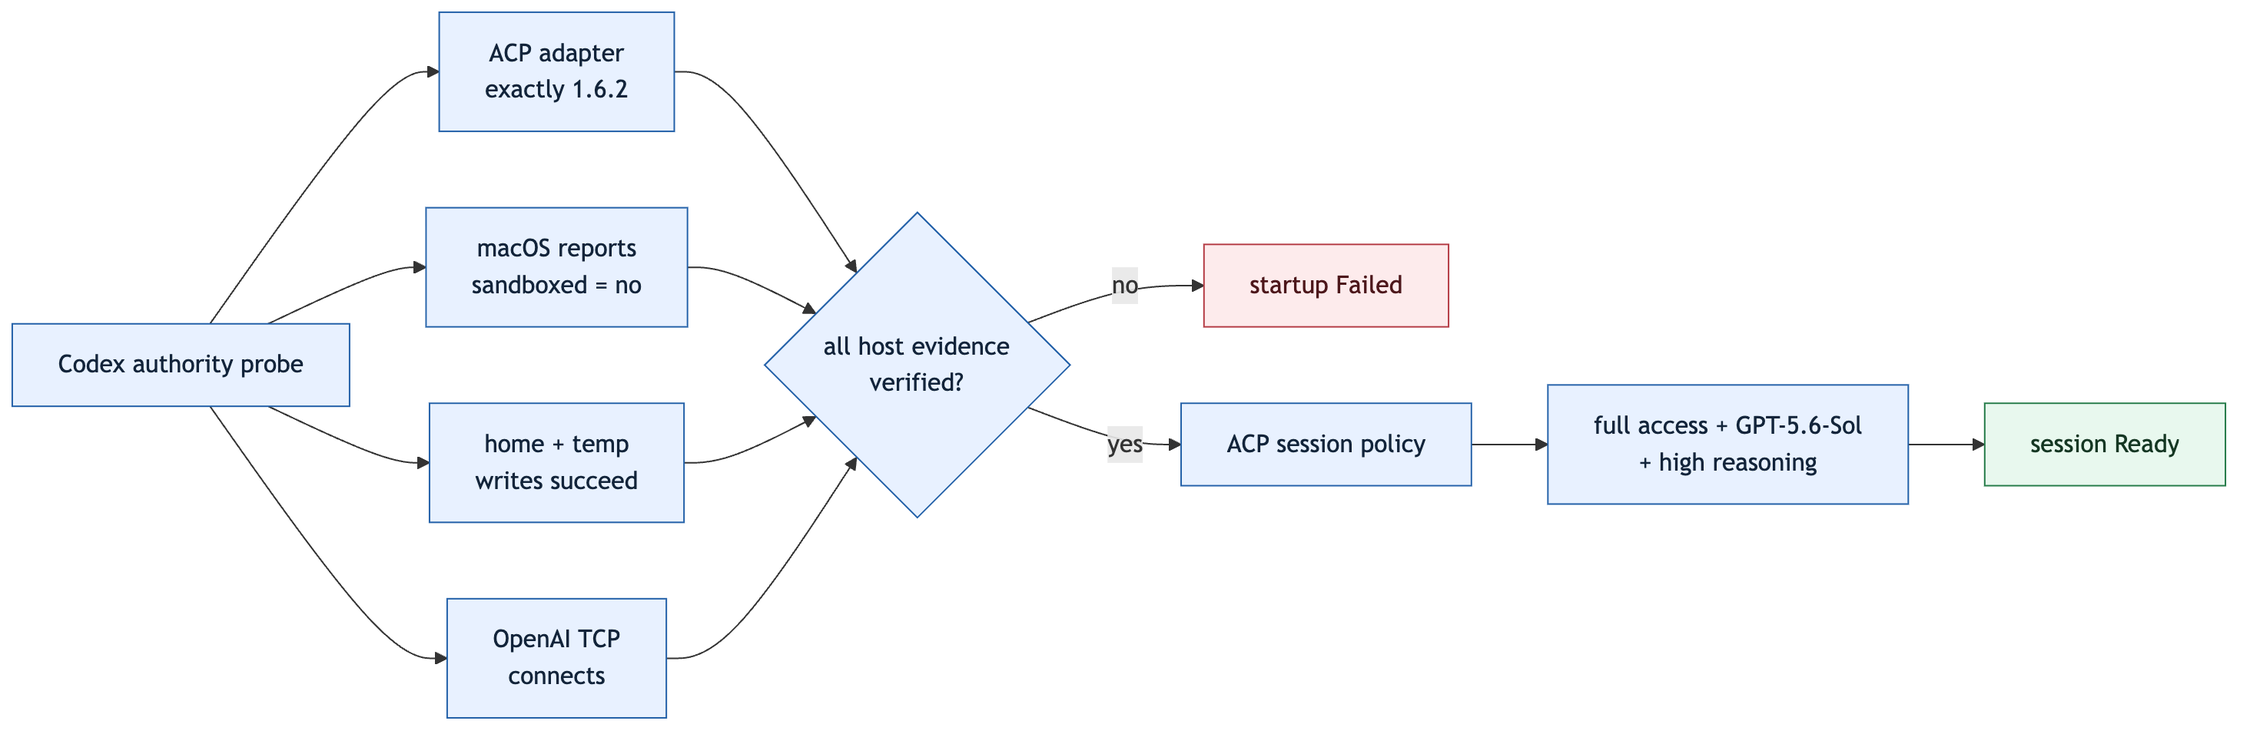
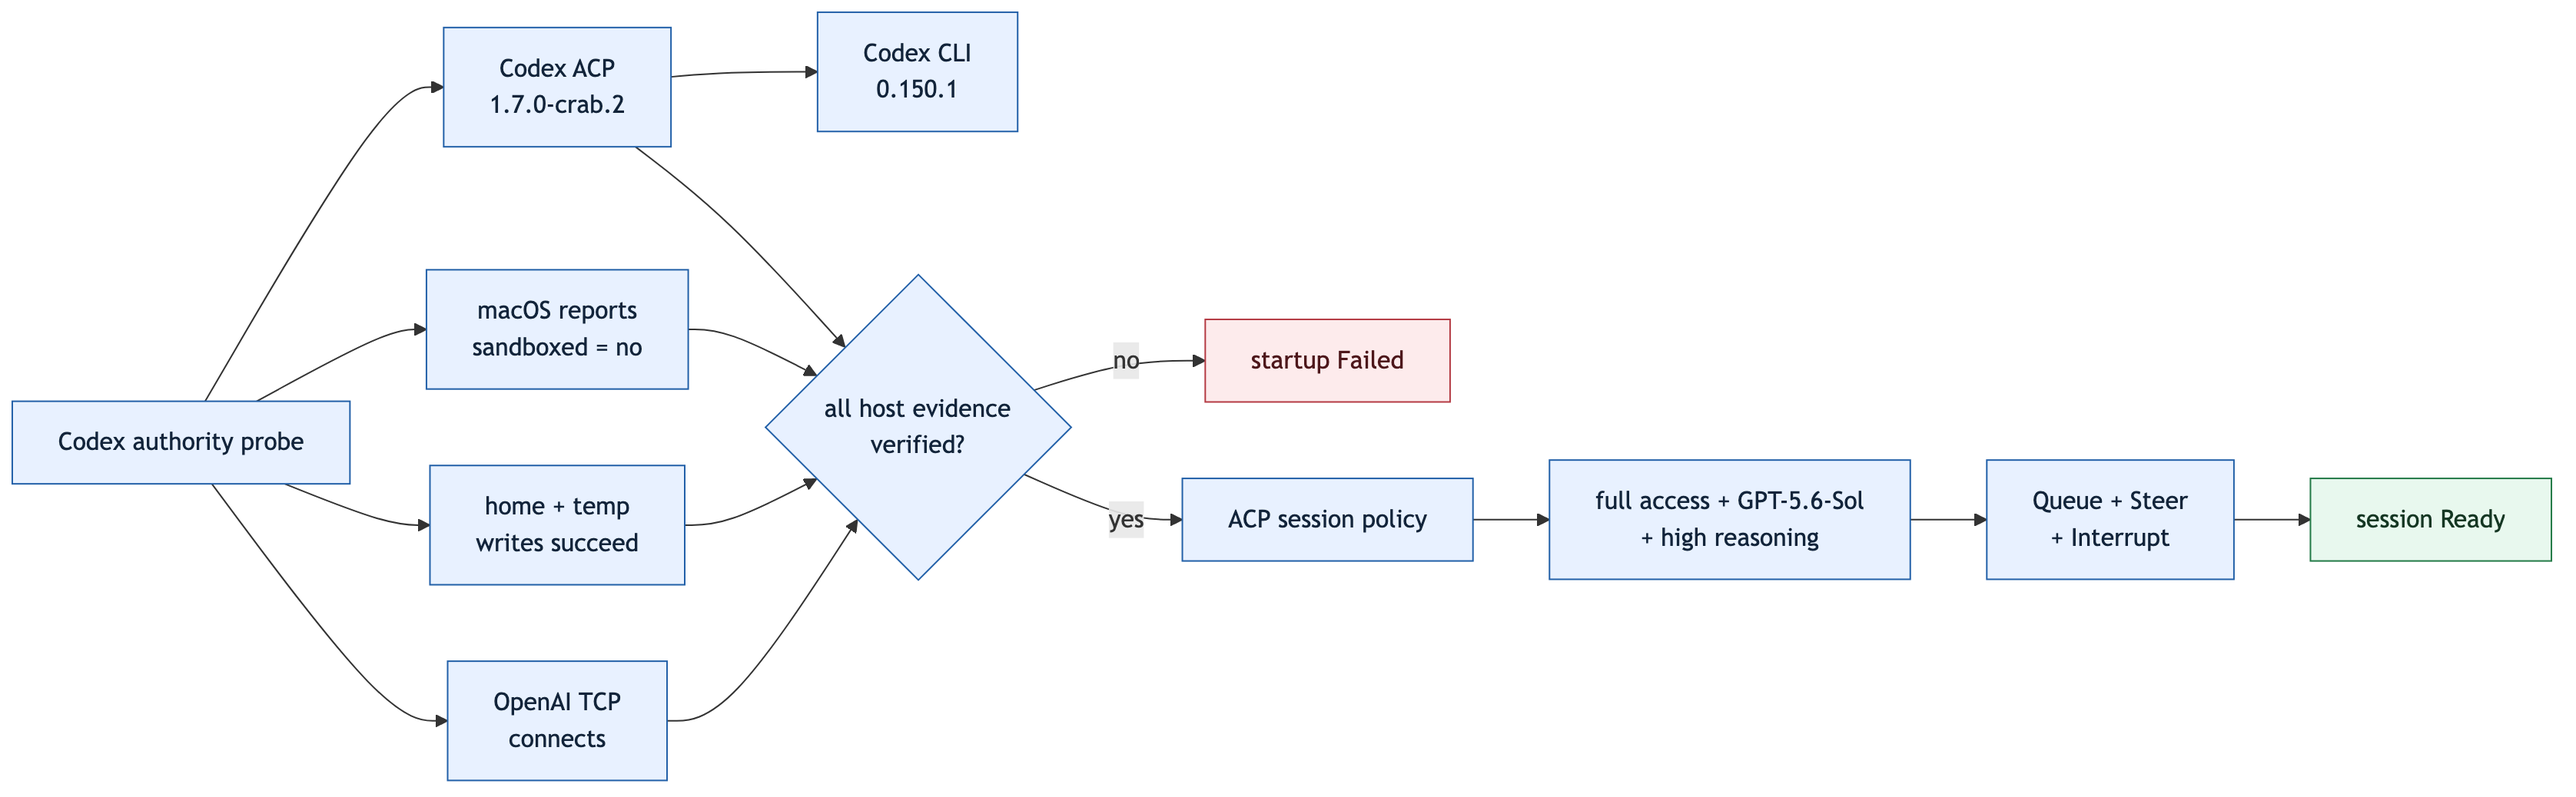
feat(v2): ship lifecycle-owned Codex steering (#294)

diff --git a/scripts/tests/test_v2_bundle.py b/scripts/tests/test_v2_bundle.py
@@ -10,6 +10,8 @@ from unittest import mock
 
 from scripts import v2_bundle as bundle_tool
 from scripts.v2_bundle import (
+    CODEX_ADAPTER_VERSION,
+    CODEX_CLI_VERSION,
     MANIFEST_NAME,
     RUNTIME_BINARIES,
     BundleError,
@@ -820,13 +822,24 @@ class BundleBuildPolicyTests(unittest.TestCase):
         codex_directory = root / "v2" / "runtime" / "agents" / "codex"
         package = json.loads((codex_directory / "package.json").read_text())
         lock = json.loads((codex_directory / "package-lock.json").read_text())
+        codex_adapter_url = (
+            "https://github.com/fontanierh/codex-acp/releases/download/"
+            "crab-v1.7.0-2/agentclientprotocol-codex-acp-1.7.0-crab.2.tgz"
+        )
         self.assertEqual(
             package["dependencies"]["@agentclientprotocol/codex-acp"],
-            "1.6.2",
+            codex_adapter_url,
+        )
+        self.assertEqual(
+            package["dependencies"]["@openai/codex"], CODEX_CLI_VERSION
         )
         resolved = lock["packages"]["node_modules/@agentclientprotocol/codex-acp"]
-        self.assertEqual(resolved["version"], "1.6.2")
+        self.assertEqual(resolved["version"], CODEX_ADAPTER_VERSION)
+        self.assertEqual(resolved["resolved"], codex_adapter_url)
         self.assertTrue(resolved["integrity"].startswith("sha512-"))
+        codex = lock["packages"]["node_modules/@openai/codex"]
+        self.assertEqual(codex["version"], CODEX_CLI_VERSION)
+        self.assertTrue(codex["integrity"].startswith("sha512-"))
 
 
 if __name__ == "__main__":

diff --git a/v2/runtime/composition/src/config.rs b/v2/runtime/composition/src/config.rs
@@ -840,11 +840,17 @@ mod tests {
         let agent = &config.agents[0];
         assert_eq!(
             agent.arguments,
-            ["--yes", "@agentclientprotocol/codex-acp@1.6.2"]
+            [
+                "--yes",
+                "https://github.com/fontanierh/codex-acp/releases/download/crab-v1.7.0-2/agentclientprotocol-codex-acp-1.7.0-crab.2.tgz"
+            ]
         );
         assert_eq!(agent.environment_from, ["PATH"]);
         assert_eq!(agent.protocol, super::ProtocolConfig::V1);
-        assert_eq!(agent.steering_extension, None);
+        assert_eq!(
+            agent.steering_extension,
+            Some(super::SteeringExtensionConfig::SessionSteeringV1)
+        );
         assert_eq!(
             agent.session_options.get("mode").map(String::as_str),
             Some("agent-full-access")
@@ -942,7 +948,10 @@ mod tests {
         assert_eq!(agent.arguments, Vec::<String>::new());
         assert_eq!(agent.environment_from, ["PATH"]);
         assert_eq!(agent.protocol, super::ProtocolConfig::V1);
-        assert_eq!(agent.steering_extension, None);
+        assert_eq!(
+            agent.steering_extension,
+            Some(super::SteeringExtensionConfig::SessionSteeringV1)
+        );
         assert_eq!(
             agent.session_options.get("mode").map(String::as_str),
             Some("agent-full-access")

diff --git a/v2/agent-host/implementation/src/bin/crab-v2-codex-authority-probe.rs b/v2/agent-host/implementation/src/bin/crab-v2-codex-authority-probe.rs
@@ -9,9 +9,9 @@ use authority_probe_support::ProbeDefinition;
 const DEFINITION: ProbeDefinition = ProbeDefinition {
     probe_name: "crab-v2-codex-authority-probe",
     adapter_name: "Codex",
-    adapter_package: "@agentclientprotocol/codex-acp@1.6.2",
-    adapter_version: "1.6.2",
-    adapter_version_output: "@agentclientprotocol/codex-acp 1.6.2",
+    adapter_package: "https://github.com/fontanierh/codex-acp/releases/download/crab-v1.7.0-2/agentclientprotocol-codex-acp-1.7.0-crab.2.tgz",
+    adapter_version: "1.7.0-crab.2",
+    adapter_version_output: "@agentclientprotocol/codex-acp 1.7.0-crab.2",
     network_endpoint: "chatgpt.com:443",
     require_non_root: false,
 };
@@ -37,7 +37,11 @@ mod tests {
         assert_eq!(invocation.executable, std::path::Path::new("npx"));
         assert_eq!(
             invocation.arguments,
-            ["--yes", "@agentclientprotocol/codex-acp@1.6.2", "--version"]
+            [
+                "--yes",
+                "https://github.com/fontanierh/codex-acp/releases/download/crab-v1.7.0-2/agentclientprotocol-codex-acp-1.7.0-crab.2.tgz",
+                "--version"
+            ]
         );
         assert_eq!(invocation.source, "pinned-npx");
     }

diff --git a/scripts/v2_bundle.py b/scripts/v2_bundle.py
@@ -26,7 +26,8 @@ from typing import Any, Callable, Iterator, Mapping, Protocol, Sequence
 SCHEMA_VERSION = 1
 MINIMUM_NODE_MAJOR = 22
 CLAUDE_ADAPTER_VERSION = "0.70.0"
-CODEX_ADAPTER_VERSION = "1.6.2"
+CODEX_ADAPTER_VERSION = "1.7.0-crab.2"
+CODEX_CLI_VERSION = "0.150.1"
 PUBLIC_HELP_BINARIES = (
     "crab-v2",
     "crab-v2-acp-channel",
@@ -504,6 +505,17 @@ def smoke_test(root: Path) -> None:
         version = run((str(adapter), "--version"), cwd=root, capture=True).stdout.strip()
         if version != expected_version:
             raise BundleError(f"{name} ACP adapter version is not {expected_version}")
+    codex_version = run(
+        (
+            str(root / "agents" / "codex" / "node_modules" / ".bin" / "codex"),
+            "--version",
+        ),
+        cwd=root,
+        capture=True,
+    ).stdout.strip()
+    expected_codex_version = f"codex-cli {CODEX_CLI_VERSION}"
+    if codex_version != expected_codex_version:
+        raise BundleError(f"Codex CLI version is not {expected_codex_version}")
     run(
         (
             "node",

diff --git a/v2/docs/runtime-startup.md b/v2/docs/runtime-startup.md
@@ -86,10 +86,12 @@ cargo run -p crab-v2-runtime --bin crab-v2 -- \
 
 ### Codex preset
 
-[`runtime.codex.example.json`](../runtime/runtime.codex.example.json) pins the official Codex ACP
-adapter to `1.6.2` and verifies `mode=agent-full-access`, `model=gpt-5.6-sol`, and
-`reasoning_effort=high` before readiness. It attaches the same bridge and sub-agent tools as the
-Claude preset.
+[`runtime.codex.example.json`](../runtime/runtime.codex.example.json) pins Crab's
+`1.7.0-crab.2` compatibility build of Codex ACP plus Codex CLI `0.150.1`. It verifies
+`mode=agent-full-access`, `model=gpt-5.6-sol`, and `reasoning_effort=high` before readiness, and
+attaches the same bridge and sub-agent tools as the Claude preset. The adapter is an exact HTTPS
+package built from fork commit `91ce897`; it contains only the runtime closure and needs neither
+Git/SSH credentials nor a target-machine build.
 
 The shell-free `crab-v2-codex-authority-probe` verifies the exact adapter, macOS sandbox state,
 home and temporary-directory writes, and OpenAI network reachability. The host still verifies the
@@ -97,9 +99,11 @@ workspace and passwordless root independently. Codex owns authentication: the ad
 its existing ChatGPT login; API-key deployments add `CODEX_API_KEY` or `OPENAI_API_KEY` to
 `environmentFrom` and the owner-private environment file.
 
-Codex `1.6.2` advertises `_session/steering`, but an idle race starts a new turn outside the
-request lifecycle. Crab therefore leaves that extension disabled for this preset: Queue remains
-portable and active Steer fails truthfully instead of creating unowned work.
+The compatibility patch keeps Codex's active steering behavior but honors Crab's opt-in
+`promptRequired` idle result. Crab can therefore enable negotiated steering without detached work:
+an active turn consumes the input immediately, while an idle race leaves it untouched and starts a
+normal host-owned `session/prompt`. The source fix is proposed upstream in
+[codex-acp #441](https://github.com/agentclientprotocol/codex-acp/pull/441).
 
 ![Codex full-authority preflight](codex-authority-flow.png)
 

diff --git a/v2/docs/runtime-bundle.md b/v2/docs/runtime-bundle.md
@@ -11,7 +11,7 @@ crab-v2-<commit>-<platform>/
 ├── bin/                  twelve production binaries; no test fixtures
 ├── agents/
 │   ├── claude/           Claude ACP adapter 0.70.0 + locked production closure
-│   └── codex/            Codex ACP adapter 1.6.2 + locked production closure
+│   └── codex/            Codex ACP 1.7.0-crab.2 + Codex 0.150.1
 ├── bridges/whatsapp/     first-party package + locked production closure
 ├── config/               generic and bundle-relative launch presets
 ├── libexec/v2_bundle.py  copied, stdlib-only verifier
@@ -41,12 +41,12 @@ and escaping-symlink entries. It does not contain credentials or runtime state.
 
 The supplied launch presets pin either Claude Opus 5 with `bypassPermissions` or Codex GPT-5.6-Sol
 with `agent-full-access` and high reasoning. Both verify their vendored adapter without `npx` and
-register the bundled WhatsApp bridge in queue mode with QR and phone authentication. Claude
-negotiates its `_session/steering` extension; Codex remains queue-only until its idle-race work can
-remain host-owned. WhatsApp bridge incidents and recovery target the primary queue lane. The
-WhatsApp preset starts with an empty, default-deny inbound policy; exact authorized DM IDs or
-group-and-sender pairs belong in the durable runtime config and survive updates. The first-party
-authority probes currently make both presets macOS-specific.
+register the bundled WhatsApp bridge in queue mode with QR and phone authentication. Both agents
+negotiate `_session/steering`: active input is injected, while an idle race returns the content to
+Crab for a normal lifecycle-owned prompt. WhatsApp bridge incidents and recovery target the primary
+queue lane. The WhatsApp preset starts with an empty, default-deny inbound policy; exact authorized
+DM IDs or group-and-sender pairs belong in the durable runtime config and survive updates. The
+first-party authority probes currently make both presets macOS-specific.
 
 ## Deploy and update
 

diff --git a/v2/README.md b/v2/README.md
@@ -42,7 +42,7 @@ interrupt as a separate explicit action.
   `compact` operation because ACP does not define one.
 - ACP v2 draft makes `session/prompt` non-blocking and allows new input during active work. ACP v1
   queues by default; configured adapters may negotiate `_session/steering`. Crab's Claude preset
-  enables it and retains ownership when a racing turn is already idle.
+  and Codex compatibility preset enable it and retain ownership when a racing turn is already idle.
 - Crab owns sub-agents as separately supervised ACP subprocesses. Fresh sessions are portable;
   inherited sessions prefer advertised ACP native forks at an exact idle cursor and may explicitly
   fall back to a visible-history snapshot. Parent and child exchange durable non-blocking queue,

diff --git a/v2/runtime/BUNDLE_README.md b/v2/runtime/BUNDLE_README.md
@@ -91,6 +91,9 @@ Discover native channels and inspect their complete ACP event cursors without op
 `interrupt <binding-id> <expected-session-id> <reason>` is an explicit cooperative cancel action.
 It never discards already accepted Queue or Steer input.
 
+The Claude and Codex presets both negotiate active steering. If the turn finishes before injection,
+the adapter returns the content untouched and Crab starts a normal lifecycle-owned prompt.
+
 The runtime requires macOS, Python 3, Node.js 22 or newer, and Crab's documented unrestricted-host
 preflight. Authenticate each ACP agent and bridge with its native flow. Credentials, runtime state,
 and logs are never part of a release bundle.
